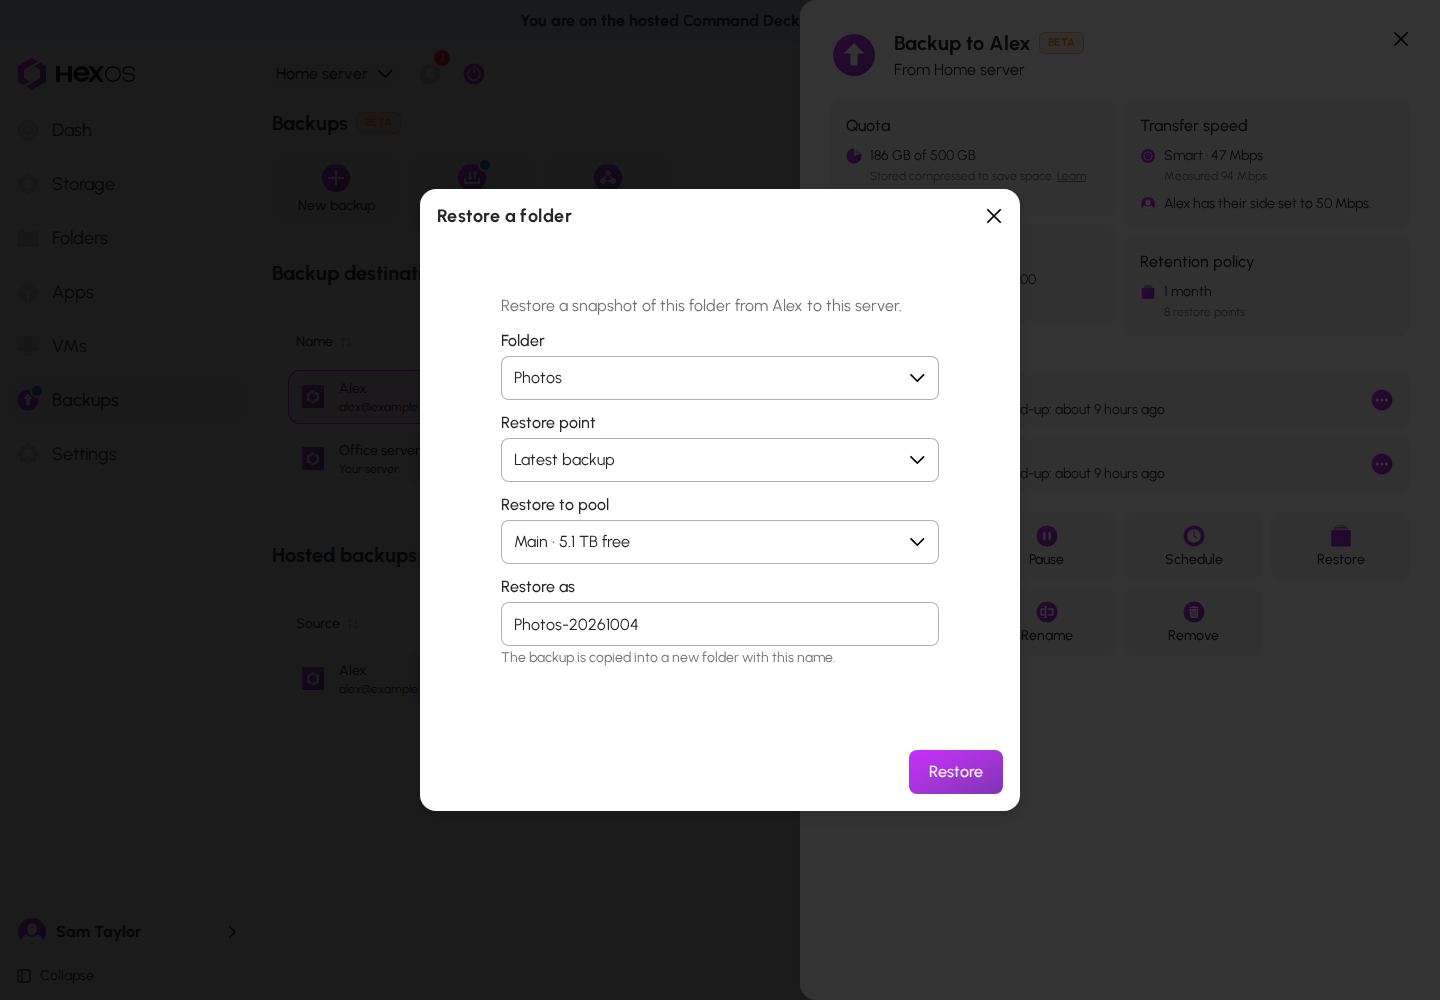
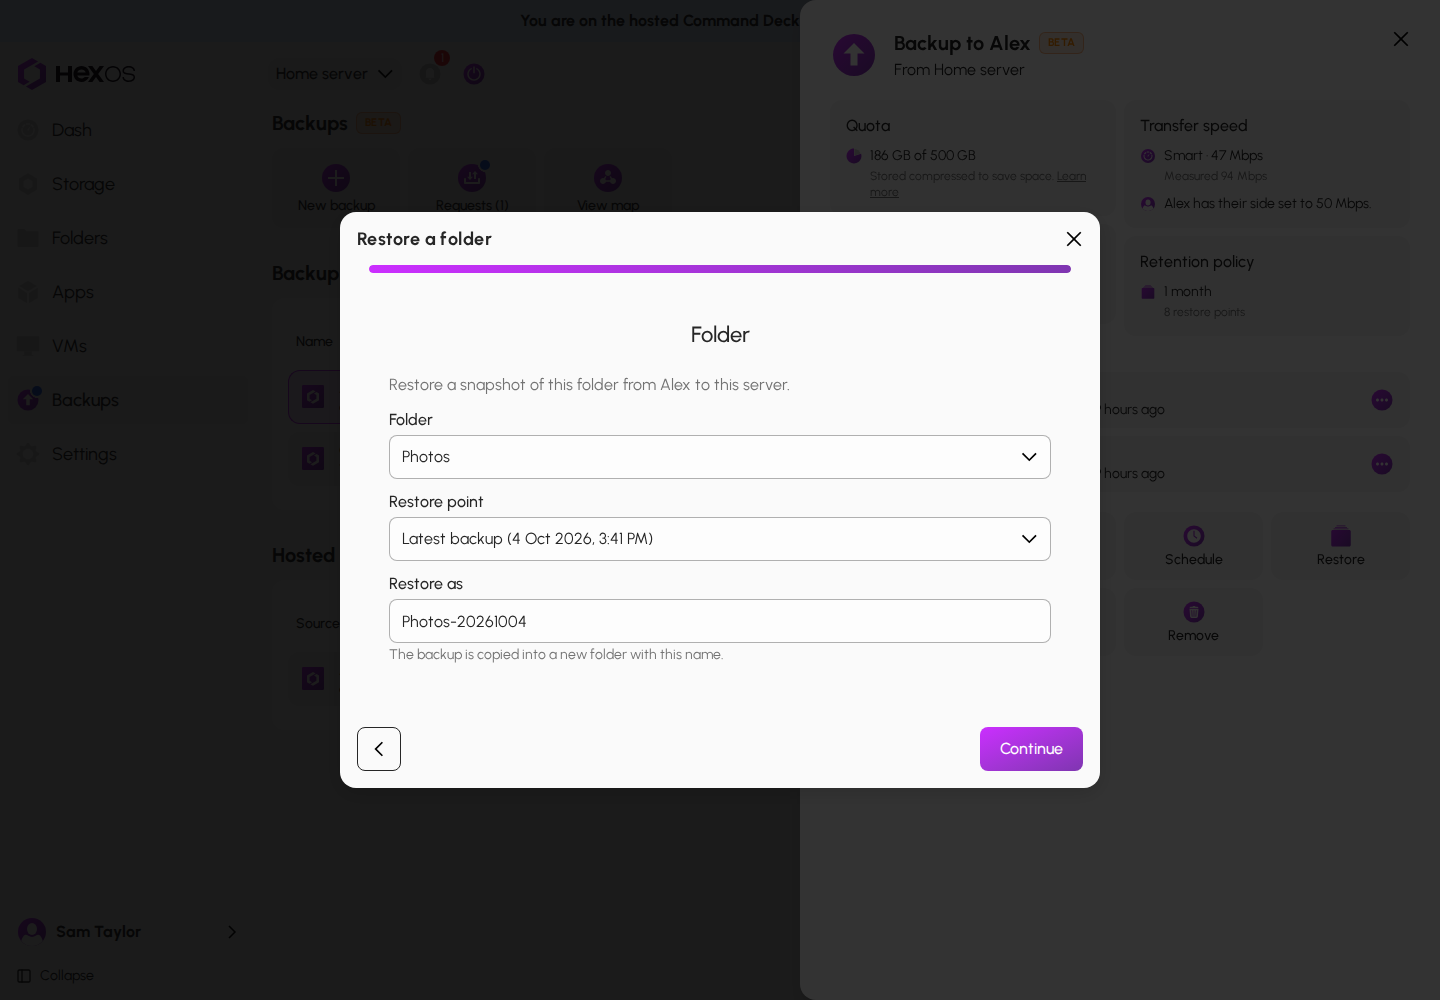
docs: Describe the Buddy Backups fixes: the restore review and its access, Recover for paused backups, Cancel setup that never deletes copies, and removals that finish when the other server is back

Changed region(s): [[0.2188, 0.186, 0.7812, 0.837], [0.625, 0.434, 0.6562, 0.465]]

diff --git a/features/backups/restore-a-folder.md b/features/backups/restore-a-folder.md
@@ -30,9 +30,6 @@ Only you can restore your own backups. The buddy who stores your copy cannot ope
 
 ## Start a restore
 
-> **Warning:** The restored folder is open to everyone on your network until you set its access. See [After it finishes](#after-it-finishes).
-{.is-warning}
-
 1. Open the backup that holds the folder: click its row on the **Backups** page, or its card in the dashboard's **Backups** section.
 2. Open the folder's menu and click **Restore from this backup**. You can also click the **Restore** tile and pick the folder.
 
@@ -42,17 +39,33 @@ Only you can restore your own backups. The buddy who stores your copy cannot ope
 ![folder-actions-menu.png](/features/backups/images/folder-actions-menu.png){.medium .framed}
 </details>
 
-3. In **Restore a folder**, choose the **Restore point**. "Latest backup" is the newest one, with its date. The others are older restore points, each with its date and size.
-4. Under **Restore to pool**, choose the pool. A pool without enough room is marked "not enough space" and cannot be chosen.
-5. Under **Restore as**, check the folder's name. HexOS suggests the folder's own name if you have no folder by that name. If you do, it adds the restore point's date, for example "Photos-20261005".
-6. If the folder uses a passphrase and is still on this server, you can type it under **Passphrase (optional)**. Leave it empty to type it later. If the folder is no longer on this server, there is no field: HexOS asks for the passphrase once the data has copied.
-7. Click **Restore**.
+3. **Restore a folder** opens on a review once it has everything it needs: the folder and its name, the restore point, the pool, and who can open the folder. Check each card.
 
 <details>
-<summary> The Restore a folder dialog </summary>
+<summary> The review </summary>
+
+![restore-folder-review.png](/features/backups/images/restore-folder-review.png){.medium .framed}
+</details>
+
+4. **Who can open it.** If the original folder is still on this server, HexOS copies its access: "Based on" the folder's "current access". If it is not, nobody can open the restored folder over the network until you add people: the card says "No users assigned. Add users to give them access." To change it, click the pencil on the **Access** card, choose **Public (Everyone)** or **Private**, tick the people who can open it and pick **Full Access** or **View Only** for each, then click **Continue**.
+
+<details>
+<summary> The Access step </summary>
+
+![restore-folder-access.png](/features/backups/images/restore-folder-access.png){.medium .framed}
+</details>
+
+5. **Something else to change?** Click the pencil on the **Folder** card to pick another restore point, change the name under **Restore as**, or type the folder's passphrase. "Latest backup" is the newest restore point, with its date. HexOS suggests the folder's own name if you have no folder by that name; if you do, it adds the restore point's date, for example "Photos-20261005". If the folder uses a passphrase and is still on this server, you can type it under **Passphrase (optional)**, or leave it empty and type it later. Click the pencil on the **Location** card to pick another pool; a pool without enough room is marked "not enough space" and cannot be chosen.
+
+<details>
+<summary> The Folder step </summary>
 
 ![restore-folder-dialog.png](/features/backups/images/restore-folder-dialog.png){.medium .framed}
 </details>
+
+6. Click **Restore**.
+
+If something is still loading when the dialog opens, it starts on the first step instead. Click **Continue** through the steps to reach the review.
 
 HexOS confirms with "Restore started" and closes the dialog. Follow the restore in the activity center.
 
@@ -88,10 +101,28 @@ The activity center shows the progress. A large folder can take a long time. To 
 
 ## After it finishes
 
-You get a notice that the folder was restored. It shows with your other folders, on the pool you chose. Your original folder, if it still exists, is unchanged.
+You get a notice that the folder was restored. It says who can open it, for example "Your folder is back. Sharing access was granted to" the people you chose. If someone you chose is no longer on this server, the notice says they "could not be matched to the accounts you selected, so they were left out." The folder shows with your other folders, on the pool you chose. Your original folder, if it still exists, is unchanged.
 
-> **Danger:** A restored folder comes back open to everyone on your network, whatever its access was before. Anyone on your network can open it and change its files, with no password. As soon as the restore finishes, set who can open the folder. See [Folder permissions](/features/folders#folder-permissions).
-{.is-danger}
+To change who can open the folder later, see [Folder permissions](/features/folders#folder-permissions).
+
+> **Warning:** Folders restored before restores asked who can open them came back open to everyone on your network, with no password. If you restored a folder before then, set who can open it. See [Folder permissions](/features/folders#folder-permissions).
+{.is-warning}
+
+## If sharing could not be finished
+
+Your files are restored, but the folder is not shared yet. The restore says one of these:
+
+- "Your files are restored, but HexOS could not finish setting up sharing. Try again." On the backup's page, under **Restores needing attention**, click **Try again**. Nobody can open the folder over the network until it finishes.
+- "Update this server, then press Try again to finish sharing the folder." Update HexOS on this server, then click **Try again**.
+- "Your files are restored, but HexOS could not verify the network share settings. It has stopped setting up sharing. Contact support." HexOS found a network share for the folder that it did not set up, and changed nothing. Ask in the [HexOS Discord Community](https://discord.gg/fCW2htvYdz).
+
+<details>
+<summary> A restore waiting for Try again </summary>
+
+![restore-held-try-again.png](/features/backups/images/restore-held-try-again.png){.medium .framed}
+</details>
+
+**Cancel** on a restore like this keeps the restored files.
 
 ## A restore that did not finish
 

diff --git a/features/backups/removing-backups.md b/features/backups/removing-backups.md
@@ -22,7 +22,7 @@ Several actions look alike but do very different things. Read this page before y
 | Withdraw a request | Nothing. Nothing was copied. | Yes, send it again |
 | **Decline** a request | Nothing. Nothing was copied. | Yes, they can send it again |
 | **Cancel setup** on a new backup | Nothing. Setup never finished. | Yes, set it up again |
-| **Cancel setup** on a backup you recovered | **Every copy the backup holds.** Use **Retry now** instead. | **No** |
+| **Cancel setup** on a backup you recovered | Not offered. Use **Retry now**, or **Remove connection** to delete it. | |
 | **Pause** | Nothing. Copies and the space set aside stay. | Yes, by the person who paused |
 | Remove a folder from a backup | That folder's copy and all its restore points on the other server | **No** |
 | **Remove connection** | Every folder and every restore point on the other server, and the space set aside | **No** |
@@ -34,7 +34,7 @@ Several actions look alike but do very different things. Read this page before y
 
 Only deleting a folder deletes your own files. Removing a connection also stops any restore in progress and removes the unfinished copy it left on your server.
 
-HexOS deletes a backup copy only when someone confirms one of the actions on this page. On its own, it removes only restore points older than the time you chose to keep them, and the unfinished copy that a stopped restore left on your server.
+HexOS deletes a backup copy only when someone confirms one of the actions on this page. If the other server is offline then, the delete finishes when it is back. On its own, it removes only restore points older than the time you chose to keep them, and the unfinished copy that a stopped restore left on your server.
 
 ## Pausing is not removing
 
@@ -49,10 +49,7 @@ Pausing does not free space on the other server. To give the space back, remove 
 
 On the **Backups** page, click **Requests**. Under **Outgoing requests**, click **Withdraw** on the request, then **Withdraw request** to confirm. Nothing was copied, so nothing is deleted.
 
-A setup that has not finished can be stopped with **Cancel setup** in its activity item, then **Cancel setup** again in "Cancel this backup setup?". That removes the connection. On a new backup, no folders were backed up yet, so nothing is lost.
-
-> **Danger:** Recovering a backup onto a new server runs setup again. If that setup fails, **Cancel setup** deletes every copy the backup holds, even though the dialog says no folders were backed up. Use **Retry now** instead, or ask in the [HexOS Discord Community](https://discord.gg/fCW2htvYdz). See [Known issues](/features/backups#known-issues).
-{.is-danger}
+A setup that has not finished can be stopped with **Cancel setup** in its activity item, then **Cancel setup** again in "Cancel this backup setup?". That removes the connection. Only a new backup offers it, so nothing is lost. A backup you recovered onto a new server offers **Retry now** instead.
 
 ## Remove a folder from a backup
 
@@ -64,8 +61,8 @@ You can do this in three places:
 
 The folder on your server stays. Its copy on the other server, and every restore point of it, is deleted for good.
 
-> **Warning:** Remove a folder only while the other server is online. If it is offline, its copy there is not deleted, even though the message says the deletion will complete later. The copy stays on the other server, still encrypted if the folder is, until you add a folder with the same name to that backup again or remove the whole connection. See [Known issues](/features/backups#known-issues).
-{.is-warning}
+> **Info:** If the other server is offline, its copy is deleted when that server is back online. Until then it still uses space there, and you can't add a folder with the same name to that backup.
+{.is-info}
 
 ## Remove a connection
 
@@ -74,6 +71,8 @@ Click the **Remove** tile on the backup's page, or **Remove connection** in the 
 The **Remove connection** dialog says "Removing this connection stops all backups between this server and" the other side. A red box says every restore point stored on the other server is permanently deleted, and the space set aside is released. It also suggests: "To stop backups without losing anything, pause the connection instead."
 
 To go ahead, check "I understand that removing this connection permanently deletes all of its backups." and click **Remove connection**.
+
+A new backup whose setup never finished has nothing to delete, so its dialog has no check box.
 
 <details>
 <summary> The Remove connection dialog </summary>
@@ -104,7 +103,7 @@ To go ahead, check "I understand that this also permanently deletes the folder's
 ![remove-folder-dialog.png](/features/backups/images/remove-folder-dialog.png){.medium .framed}
 </details>
 
-Do this while the servers it backs up to are online. A copy on a server that is offline at the time is not deleted, and stays there until you remove that connection. Nothing is left on the servers that were online. If you only want to free space on your server, restore anything you need first, or keep the folder.
+A copy on a server that is offline at the time is deleted when that server is back online. If you only want to free space on your server, restore anything you need first, or keep the folder.
 
 ## Unclaiming or resetting a server that stores backups
 

diff --git a/features/backups/recover-a-failed-server.md b/features/backups/recover-a-failed-server.md
@@ -54,10 +54,9 @@ Recovering has two parts:
 
 HexOS then sets the backup up on the new server. This shows in the activity center, like a new backup's setup.
 
-> **Danger:** If that setup fails, click **Retry now**. Do not click **Cancel setup**: on a recovered backup it deletes every copy the backup holds, even though the dialog says no folders were backed up. See [Known issues](/features/backups#known-issues).
-{.is-danger}
+If that setup fails, click **Retry now**. A recovered backup has no **Cancel setup**, so its copies are kept.
 
-HexOS confirms with "Connection transferred to" the new server's name, and "Restore its folders from the backup's details."
+HexOS confirms with "Connection transferred to" the new server's name, and "Restore its folders from the backup's details." For a paused backup, it says "It's still paused." instead.
 
 If you have nothing to recover, HexOS says "You do not have any backups that can be recovered."
 
@@ -68,14 +67,17 @@ Recover moves only the connection. It does not bring back any folders by itself.
 1. Open the backup on the **Backups** page.
 2. Click the **Restore** tile, or open a folder's menu and click **Restore from this backup**.
 3. Restore each folder you need. See [Restore a folder](/features/backups/restore-a-folder).
-4. After each restore, set who can open the folder. A restored folder comes back open to everyone on your network. See [Folder permissions](/features/folders#folder-permissions).
+4. Check who can open each folder before you click **Restore**. On a new server the original folder and its users are usually not there yet, so nobody is assigned. Add people on the **Access** card, or later in [Folder permissions](/features/folders#folder-permissions).
 
 > **Tip:** Restore a folder under its own name, from its newest restore point. HexOS then reconnects it to the backup, so it keeps backing up from the new server.
 {.is-tip}
 
+## Recovering a paused backup
+
+A paused backup can be recovered too. It shows "paused" in the list, and "Recovering keeps this backup paused." when you choose it. It stays paused on the new server, and HexOS says "It's still paused." Resume it there when you are ready. If your buddy paused it, ask them to resume it.
+
 ## When recovering cannot go ahead
 
-- **The backup is paused.** A paused backup shows "paused, resume it first" and cannot be chosen. If the old server still works, resume the backup on its **Backups** page first. If the old server is gone, the backup can be neither resumed nor recovered yet. Its copies are kept. Ask in the [HexOS Discord Community](https://discord.gg/fCW2htvYdz) before you do anything else. See [Known issues](/features/backups#known-issues).
 - **The server that stores the backup is offline.** The dialog says so. Try again once it is back online.
 
 ## Retained backups

diff --git a/features/backups/troubleshooting.md b/features/backups/troubleshooting.md
@@ -125,10 +125,7 @@ If the other server's pool is full, the notice says so, because more space set a
 
 ## Setup will not finish
 
-HexOS tries failed setup steps again on its own within about 10 minutes. To act sooner, use **Retry now** in the activity item, **Retry** on the backup's page, or **Retry setup** in the row's menu. **Cancel setup**, then **Cancel setup** again in "Cancel this backup setup?", stops it. On a new backup, cancelling loses nothing, because nothing was backed up yet.
-
-> **Danger:** On a backup you recovered onto a new server, **Cancel setup** deletes every copy the backup holds. Use **Retry now** instead. See [Known issues](/features/backups#known-issues).
-{.is-danger}
+HexOS tries failed setup steps again on its own within about 10 minutes. To act sooner, use **Retry now** in the activity item, **Retry** on the backup's page, or **Retry setup** in the row's menu. On a new backup, **Cancel setup**, then **Cancel setup** again in "Cancel this backup setup?", stops it and loses nothing. A backup you recovered onto a new server has no **Cancel setup**.
 
 Common causes:
 
@@ -146,11 +143,13 @@ If encryption finished but the folder was not added, HexOS says so. Add it again
 
 ## A removed folder's copy is still on the other server
 
-If you removed a folder from a backup, or deleted a backed-up folder, while the other server was offline, its copy there was not deleted. The message said the deletion would finish later, but it does not. To clear it, add the folder back to that backup and remove it again while both servers are online, or remove the whole connection. See [Known issues](/features/backups#known-issues).
+If you removed a folder, or deleted a backed-up folder, while the other server was offline, its copy is deleted when that server is back online. A copy left by a removal made before this fix stays: add the folder back to that backup and remove it again while both servers are online, or remove the whole connection.
 
-## A paused backup cannot be recovered
+While that copy is still owed, moving the backup to another pool or server says "A removed folder's copy is still being deleted. Try the move again in a few minutes." Wait until the other server is online, then try the move again.
 
-A backup that was paused cannot be recovered onto a new server. If the old server still works, resume the backup there first. If the old server is gone, the backup cannot be resumed or recovered yet. Its copies are kept. Ask in the [HexOS Discord Community](https://discord.gg/fCW2htvYdz) before you remove anything.
+## Recovering a paused backup
+
+A paused backup can be recovered onto a new server. It stays paused there until it is resumed. If your buddy paused it, ask them to resume it.
 
 ## You cannot delete a folder
 

diff --git a/features/backups.md b/features/backups.md
@@ -39,10 +39,7 @@ What this means for you:
 
 We know about these and are working on fixes. This list changes as fixes ship.
 
-- **A restored folder is open to everyone on your network.** When you restore a folder, it comes back open to anyone on your network, with no password, whatever its access was before. Right after a restore, set who can open the folder. See [Restore a folder](/features/backups/restore-a-folder#after-it-finishes).
-- **Removing a folder while the other server is offline leaves its copy there.** The message says the deletion finishes later, but it does not. Meanwhile, remove folders (or delete a backed-up folder) only while both servers are online. To clear a copy left behind, add the folder back to that backup and remove it again while both are online, or remove the whole connection. See [Removing backups](/features/backups/removing-backups#remove-a-folder-from-a-backup).
-- **Cancel setup on a recovered backup deletes its copies.** After you recover a backup onto a new server, its setup runs again. If that setup fails, **Cancel setup** deletes every copy the backup holds, though the dialog says nothing was backed up. Meanwhile, click **Retry now**, never **Cancel setup**, on a recovered backup. See [Recover a failed server](/features/backups/recover-a-failed-server#move-the-backup-to-the-new-server).
-- **A backup paused when its server was lost cannot be recovered.** It cannot be resumed either, because its server is gone. Its copies are kept. Meanwhile, ask in the [HexOS Discord Community](https://discord.gg/fCW2htvYdz) before you remove anything.
+- **Folders restored before restores asked who can open them are open to everyone on your network.** Restores now ask, but a folder restored before then came back with no password. If you restored a folder before then, set who can open it. See [Restore a folder](/features/backups/restore-a-folder#after-it-finishes).
 - **The server that sends a backup can see dataset names on the server that stores it.** It can see names, such as folder names, but cannot open anything. Meanwhile, host backups only for people you are happy to show your folder names to.
 - **Storing a backup turns on SSH on your local network.** HexOS turns on the SSH service on the server that stores a backup. It listens on your local network as well as the private link, and stays on after the backup is removed. Nothing is opened on your router. Meanwhile, if your server no longer stores any backups, you can turn SSH off in TrueNAS.
 

diff --git a/features/backups/how-it-works.md b/features/backups/how-it-works.md
@@ -71,7 +71,7 @@ When you create a backup to your own server, or your buddy accepts your request,
 
 Then each folder you chose is added, and its first backup starts on its own.
 
-If a step fails, HexOS tries again within about 10 minutes and picks up where it stopped. **Retry now** in the activity item tries again straight away. **Cancel setup** removes the half-built connection. On a new backup, that holds no backed-up data yet. On a backup you recovered onto a new server, it deletes the backup's copies, so use **Retry now** there. See [Known issues](/features/backups#known-issues).
+If a step fails, HexOS tries again within about 10 minutes and picks up where it stopped. **Retry now** in the activity item tries again straight away. On a new backup, **Cancel setup** removes the half-built connection, which holds no backed-up data yet. A backup you recovered onto a new server has no **Cancel setup**: use **Retry now**.
 
 ## What is stored on the receiving server
 
@@ -142,8 +142,7 @@ A restore pulls the copy back as a new folder. An encrypted folder arrives still
 
 **Passphrase:** your passphrase passes through HexOS to your server without being stored. Your server keeps it in memory for the unlock, never on disk, and drops it afterwards.
 
-> **Danger:** Once it unlocks, the restored folder is shared on your network and open to everyone, whatever its access was before. Set its access as soon as the restore finishes. See [Restore a folder](/features/backups/restore-a-folder#after-it-finishes).
-{.is-danger}
+Once it unlocks, the restored folder is shared on your network with the access you chose in the restore's review. See [Restore a folder](/features/backups/restore-a-folder#start-a-restore).
 
 > **Info:** With keys managed by HexOS (the default), HexOS can unlock restored folders for you. If you keep the recovery key yourself, store it somewhere safe. See [Recovery keys](/features/folders#recovery-keys).
 {.is-info}

diff --git a/features/backups/manage-your-backups.md b/features/backups/manage-your-backups.md
@@ -204,6 +204,7 @@ The tile becomes **Resume**, and the page says "Backups are paused. Nothing new 
 - Only the person who paused can resume. If your buddy paused it, ask them to resume it. Between your own servers, you can resume from either side.
 - A pause HexOS made because space ran short can be resumed by either side. It also resumes on its own when there is room.
 - You cannot pause while a restore is running. The page says "A restore is running. Pausing is unavailable until it finishes."
+- If the server that sends a paused backup is lost, recover the backup onto your new server. It stays paused there, and you can resume it from the new server. See [Recover a failed server](/features/backups/recover-a-failed-server).
 
 Pausing does not free space on the other server. To give the space back, remove the backup instead, which deletes the copy.
 
